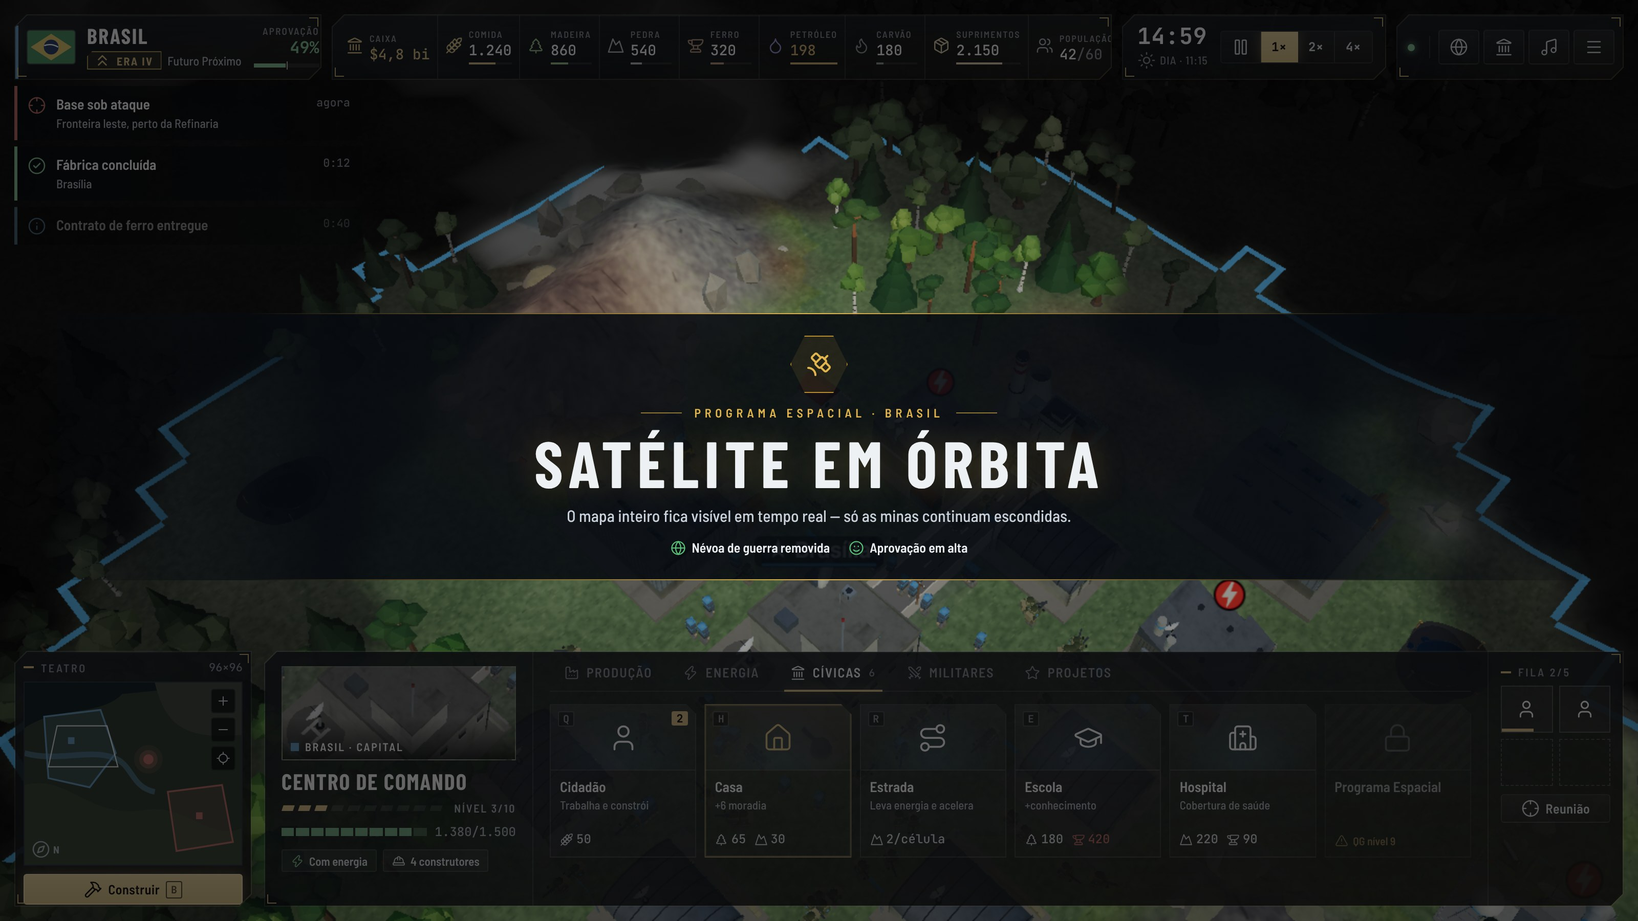
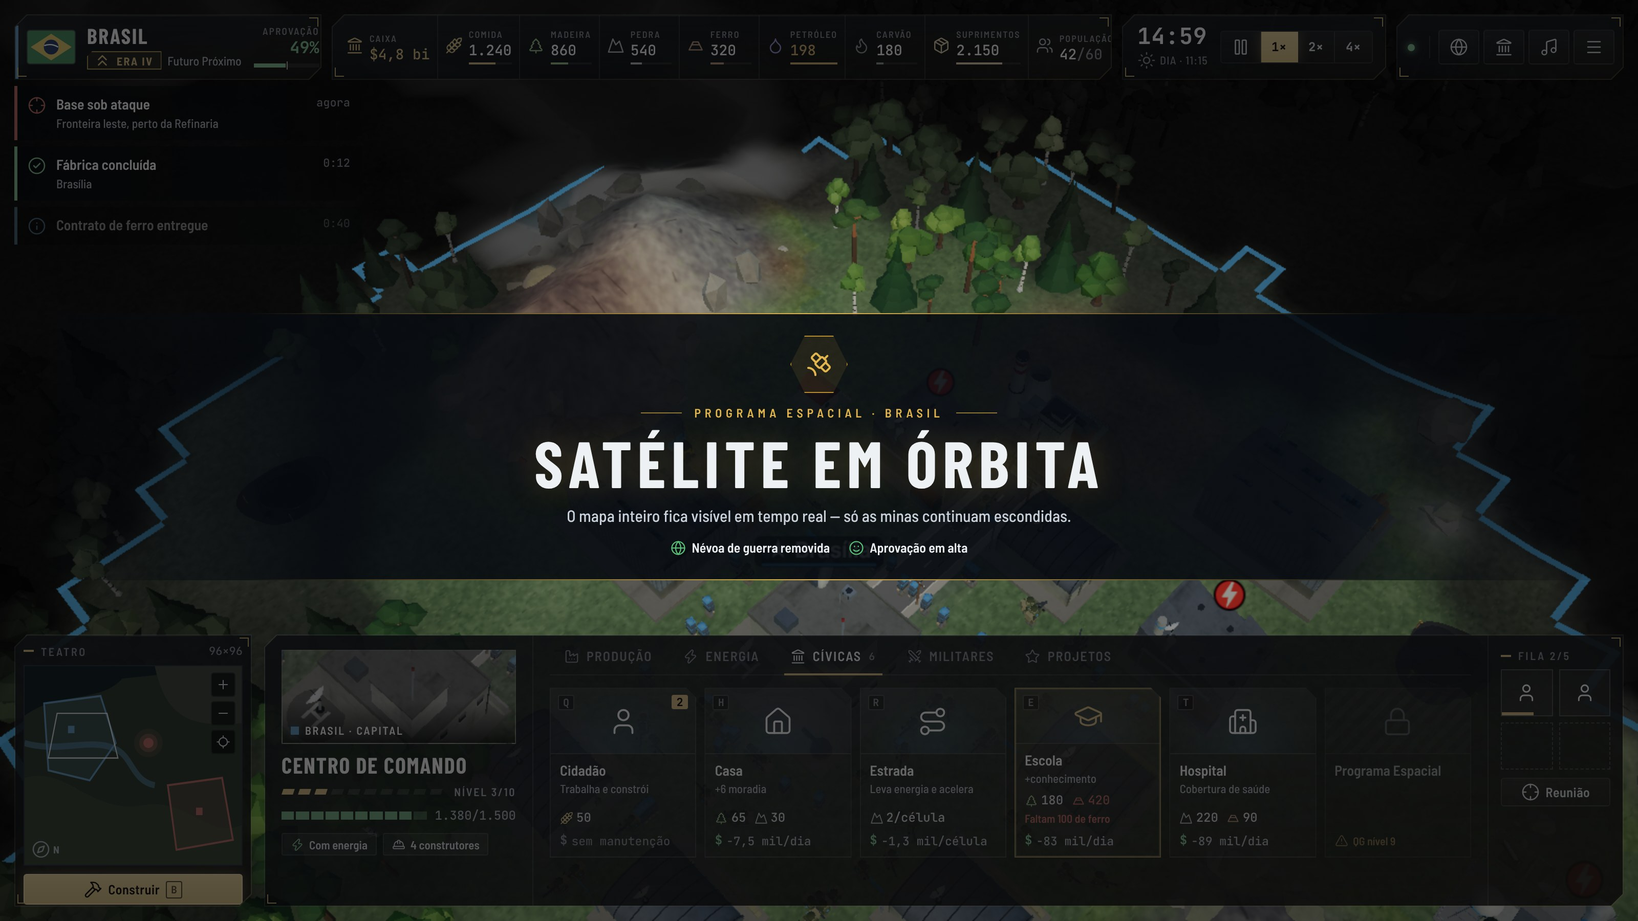
Maquete da interface: ferro como lingote, cores dos recursos nos custos, quanto falta e manutenção diária ($) com efeito no saldo do caixa
Claude-Session: https://claude.ai/code/session_015RU5brxskX44Doeef5qcRE

diff --git a/docs/ui_maquete/fonte/hud.tpl.html b/docs/ui_maquete/fonte/hud.tpl.html
@@ -55,7 +55,7 @@ html, body { width: 100%; height: 100%; overflow: hidden; }
 .ev.old { opacity: .55; }
 
 /* ---------- minimapa ---------- */
-.mini { position: absolute; left: 14px; bottom: 14px; width: 232px; height: 250px; }
+.mini { position: absolute; left: 14px; bottom: 14px; width: 232px; height: 266px; } .mini .map { height: 196px !important; }
 .mini .in { padding: 8px; }
 .mini .head { display: flex; justify-content: space-between; align-items: center; margin-bottom: 7px; }
 .mini .map { position: relative; height: 180px; background: #0b2233; overflow: hidden; border: 1px solid var(--line); }
@@ -69,7 +69,7 @@ html, body { width: 100%; height: 100%; overflow: hidden; }
 .kbd { font: 600 10px var(--mono); padding: 1px 4px; border: 1px solid currentColor; border-radius: 2px; opacity: .7; }
 
 /* ---------- painel de comando ---------- */
-.cmd { position: absolute; left: 258px; right: 14px; bottom: 14px; height: 250px; }
+.cmd { position: absolute; left: 258px; right: 14px; bottom: 14px; height: 266px; }
 .cmd > .in { display: grid; grid-template-columns: 262px 1fr 132px; }
 .sel { padding: 14px 16px; border-right: 1px solid var(--line); display: flex; flex-direction: column; gap: 9px; }
 .portrait { height: 92px; background: url(cena-1.jpg) no-repeat; background-size: 1600px 900px; background-position: -696px -588px; border: 1px solid var(--line); position: relative; }
@@ -98,14 +98,18 @@ html, body { width: 100%; height: 100%; overflow: hidden; }
 .tab.on::after { content: ''; position: absolute; left: 8px; right: 8px; bottom: -1px; height: 2px; background: var(--brass); box-shadow: 0 0 10px var(--brass-glow); }
 .tab .n { font: 500 10px var(--mono); color: var(--ink-400); }
 .grid { display: grid; grid-template-columns: repeat(6, minmax(0, 1fr)); gap: 8px; }
-.card { position: relative; height: 150px; display: flex; flex-direction: column; background: linear-gradient(180deg, rgba(255,255,255,.05), rgba(255,255,255,.015)); border: 1px solid var(--line);
+.card { position: relative; height: 166px; display: flex; flex-direction: column; background: linear-gradient(180deg, rgba(255,255,255,.05), rgba(255,255,255,.015)); border: 1px solid var(--line);
   clip-path: polygon(0 0, calc(100% - 10px) 0, 100% 10px, 100% 100%, 0 100%); }
 .card .art { height: 64px; display: grid; place-items: center; background: radial-gradient(ellipse at 50% 90%, rgba(59,155,227,.20), transparent 70%), linear-gradient(180deg, rgba(255,255,255,.03), transparent); border-bottom: 1px solid var(--line); color: var(--ink-100); }
 .card .art svg.i { width: 30px; height: 30px; stroke-width: 1.5; }
 .card .nm { font: 600 14px/1.15 var(--font); padding: 8px 9px 0; }
-.card .cost { display: flex; gap: 8px; padding: 6px 9px 0; margin-top: auto; padding-bottom: 9px; flex-wrap: wrap; }
+.card .cost { display: flex; gap: 8px; padding: 6px 9px 0; margin-top: auto; padding-bottom: 6px; flex-wrap: wrap; }
 .card .cost span { display: inline-flex; align-items: center; gap: 3px; font: 500 12px var(--mono); color: var(--ink-200); }
 .card .cost svg.i { width: 13px; height: 13px; }
+.card .up { display: flex; align-items: center; gap: 4px; padding: 0 9px 8px; font: 500 11.5px var(--mono); color: var(--ink-300); }
+.card .up b { color: var(--ok); font: 700 12px var(--mono); }
+.card .up.zero { color: var(--ink-400); }
+.card .missline { font: 600 11px var(--font); color: var(--bad); padding: 0 9px 7px; margin-top: -3px; }
 .card .key { position: absolute; top: 6px; left: 7px; font: 600 10px var(--mono); color: var(--ink-400); border: 1px solid var(--line-2); padding: 0 4px; border-radius: 2px; background: rgba(0,0,0,.3); }
 .card .eff { font: 500 11.5px/1.2 var(--font); color: var(--ink-300); padding: 3px 9px 0; }
 .card.hover { border-color: rgba(226,181,77,.6); background: linear-gradient(180deg, rgba(226,181,77,.12), rgba(255,255,255,.02)); box-shadow: inset 0 0 0 1px rgba(226,181,77,.25); }
@@ -125,12 +129,20 @@ html, body { width: 100%; height: 100%; overflow: hidden; }
 .q svg.i { width: 20px; height: 20px; }
 
 /* dica (tooltip) */
-.tip { position: absolute; width: 270px; padding: 12px 14px; z-index: 5; }
+.tip { position: absolute; width: 300px; padding: 12px 14px; z-index: 5; }
 .tip .in { padding: 12px 14px; }
 .tip h4 { font: 700 16px var(--title); letter-spacing: .05em; text-transform: uppercase; display: flex; justify-content: space-between; align-items: center; }
 .tip p { font: 500 12.5px/1.4 var(--font); color: var(--ink-300); margin-top: 6px; }
 .tip .row { display: flex; justify-content: space-between; font: 500 12px var(--font); color: var(--ink-200); padding: 5px 0; border-top: 1px solid var(--line); }
 .tip .row b { font: 500 12px var(--mono); color: var(--ok); }
+.tip .row .num { font-size: 12px; }
+.tip .tsub { font: 600 10px var(--font); letter-spacing: .14em; text-transform: uppercase; color: var(--ink-400); margin: 10px 0 2px; }
+.tip .row.sub { color: var(--ink-300); padding: 3px 0; border-top: 0; }
+.tip .row.tot { font-weight: 700; color: var(--ink-100); }
+.tip .row.tot .num { color: var(--ink-100); font-weight: 700; }
+.tip .usd { color: var(--ok); font: 700 13px var(--mono); }
+.tip .bal { margin-top: 8px; padding: 8px 10px; background: rgba(92,196,122,.08); border: 1px solid rgba(92,196,122,.25); display: flex; flex-direction: column; gap: 4px; font: 600 12px var(--font); color: var(--ink-200); }
+.tip .bal .num { font-size: 12px; color: var(--ok); } .tip .bal i { color: var(--ink-400); font-style: normal; }
 
 /* ---------- momento cinematográfico ---------- */
 .cine { position: absolute; left: 0; right: 0; top: 34%; display: none; flex-direction: column; align-items: center; z-index: 6; }
@@ -160,12 +172,16 @@ html, body { width: 100%; height: 100%; overflow: hidden; }
   .tools .btn.hide-m, .net, .tools .sep { display: none; }
   .feed { top: 62px; width: 250px; } .ev { padding: 6px 9px; } .ev .t { font-size: 12.5px; } .ev .s, .ev.old { display: none; }
   .mini { width: 150px; height: 168px; left: 8px; bottom: 8px; } .mini .in { padding: 6px; } .mini .head { margin-bottom: 4px; } .mini .map { height: 96px; } .mini .build { margin-top: 6px; } .mini .head .kicker { font-size: 9px; } .mini .build .btn { height: 28px; font-size: 12px; }
-  .cmd { left: 166px; right: 8px; bottom: 8px; height: 168px; }
+  .cmd { left: 166px; right: 8px; bottom: 8px; height: 182px; } .mini { height: 182px !important; } .mini .map { height: 110px !important; }
   .cmd > .in { grid-template-columns: 170px 1fr; } .queue { display: none; }
   .sel { padding: 9px 11px; gap: 6px; } .portrait { height: 48px; background-size: 1000px 562px; background-position: -432px -376px; } .selname { font-size: 16px; } .chips, .portrait .owner { display: none; } .pips i { width: 10px; height: 5px; }
   .acts { padding: 0 10px 8px; } .tab { padding: 8px 8px 7px; font-size: 11px; } .tab span.l { display: none; } .tabs { margin-bottom: 8px; }
   .grid { grid-template-columns: repeat(4, minmax(0, 1fr)); gap: 6px; } .grid .card:nth-child(n+5) { display: none; }
-  .card { height: 106px; } .card .art { height: 42px; } .card .art svg.i { width: 22px; height: 22px; } .card .nm { font-size: 12.5px; padding: 5px 7px 0; } .card .eff { display: none; } .card .cost { padding: 4px 7px 7px; } .card .key { display: none; }
+  .card { height: 120px; } .card .missline, .card .eff { display: none; } .card .up { padding: 0 7px 6px; font-size: 10.5px; } .card .art { height: 42px; } .card .art svg.i { width: 22px; height: 22px; } .card .nm { font-size: 12.5px; padding: 5px 7px 0; } .card .eff { display: none; } .card .cost { padding: 4px 7px 7px; } .card .up { display: flex; align-items: center; gap: 4px; padding: 0 9px 8px; font: 500 11.5px var(--mono); color: var(--ink-300); }
+.card .up b { color: var(--ok); font: 700 12px var(--mono); }
+.card .up.zero { color: var(--ink-400); }
+.card .missline { font: 600 11px var(--font); color: var(--bad); padding: 0 9px 7px; margin-top: -3px; }
+.card .key { display: none; }
   .tip { display: none; }
   .btn { height: 34px; min-width: 38px; }
 }
@@ -185,7 +201,7 @@ html, body { width: 100%; height: 100%; overflow: hidden; }
       <div class="r"><span style="color:#d9b45a">{{i:wheat}}</span><div><div class="lbl">Comida</div><div class="v">1.240</div><div class="cap"><i style="width:62%;background:#d9b45a"></i></div></div></div>
       <div class="r"><span style="color:#7fbf6a">{{i:tree-pine}}</span><div><div class="lbl">Madeira</div><div class="v">860</div><div class="cap"><i style="width:43%;background:#7fbf6a"></i></div></div></div>
       <div class="r"><span style="color:#a9b3bd">{{i:mountain}}</span><div><div class="lbl">Pedra</div><div class="v">540</div><div class="cap"><i style="width:27%;background:#a9b3bd"></i></div></div></div>
-      <div class="r hide-m"><span style="color:#c98a63">{{i:anvil}}</span><div><div class="lbl">Ferro</div><div class="v">320</div><div class="cap"><i style="width:32%;background:#c98a63"></i></div></div></div>
+      <div class="r hide-m"><span style="color:#c98a63">{{i:ingot}}</span><div><div class="lbl">Ferro</div><div class="v">320</div><div class="cap"><i style="width:32%;background:#c98a63"></i></div></div></div>
       <div class="r full hide-m"><span style="color:#8f8cff">{{i:droplet}}</span><div><div class="lbl">Petróleo</div><div class="v">198</div><div class="cap"><i style="width:99%;background:var(--warn)"></i></div></div></div>
       <div class="r hide-m"><span style="color:#8a8f99">{{i:flame}}</span><div><div class="lbl">Carvão</div><div class="v">180</div><div class="cap"><i style="width:18%;background:#8a8f99"></i></div></div></div>
       <div class="r"><span style="color:#e2c48a">{{i:package}}</span><div><div class="lbl">Suprimentos</div><div class="v">2.150</div><div class="cap"><i style="width:72%;background:#e2c48a"></i></div></div></div>
@@ -247,11 +263,11 @@ html, body { width: 100%; height: 100%; overflow: hidden; }
         <span class="tab">{{i:star}}<span class="l">Projetos</span></span>
       </div>
       <div class="grid">
-        <div class="card"><span class="key">Q</span><span class="qcount">2</span><div class="art">{{i:user}}</div><div class="nm">Cidadão</div><div class="eff">Trabalha e constrói</div><div class="cost"><span>{{i:wheat}}50</span></div></div>
-        <div class="card hover"><span class="key">H</span><div class="art">{{i:house}}</div><div class="nm">Casa</div><div class="eff">+6 moradia</div><div class="cost"><span>{{i:tree-pine}}65</span><span>{{i:mountain}}30</span></div></div>
-        <div class="card"><span class="key">R</span><div class="art">{{i:route}}</div><div class="nm">Estrada</div><div class="eff">Leva energia e acelera</div><div class="cost"><span>{{i:mountain}}2/célula</span></div></div>
-        <div class="card short"><span class="key">E</span><div class="art">{{i:graduation-cap}}</div><div class="nm">Escola</div><div class="eff">+conhecimento</div><div class="cost"><span>{{i:tree-pine}}180</span><span class="miss">{{i:anvil}}420</span></div></div>
-        <div class="card"><span class="key">T</span><div class="art">{{i:hospital}}</div><div class="nm">Hospital</div><div class="eff">Cobertura de saúde</div><div class="cost"><span>{{i:mountain}}220</span><span>{{i:anvil}}90</span></div></div>
+        <div class="card"><span class="key">Q</span><span class="qcount">2</span><div class="art">{{i:user}}</div><div class="nm">Cidadão</div><div class="eff">Trabalha e constrói</div><div class="cost"><span>{{i:wheat}}50</span></div><div class="up zero"><b style="color:var(--ink-400)">$</b>sem manutenção</div></div>
+        <div class="card"><span class="key">H</span><div class="art">{{i:house}}</div><div class="nm">Casa</div><div class="eff">+6 moradia</div><div class="cost"><span>{{i:tree-pine}}65</span><span>{{i:mountain}}30</span></div><div class="up"><b>$</b>−7,5 mil/dia</div></div>
+        <div class="card"><span class="key">R</span><div class="art">{{i:route}}</div><div class="nm">Estrada</div><div class="eff">Leva energia e acelera</div><div class="cost"><span>{{i:mountain}}2/célula</span></div><div class="up"><b>$</b>−1,3 mil/célula</div></div>
+        <div class="card short hover"><span class="key">E</span><div class="art">{{i:graduation-cap}}</div><div class="nm">Escola</div><div class="eff">+conhecimento</div><div class="cost"><span>{{i:tree-pine}}180</span><span class="miss">{{i:ingot}}420</span></div><div class="missline">Faltam 100 de ferro</div><div class="up"><b>$</b>−83 mil/dia</div></div>
+        <div class="card"><span class="key">T</span><div class="art">{{i:hospital}}</div><div class="nm">Hospital</div><div class="eff">Cobertura de saúde</div><div class="cost"><span>{{i:mountain}}220</span><span>{{i:ingot}}90</span></div><div class="up"><b>$</b>−89 mil/dia</div></div>
         <div class="card lock"><div class="art">{{i:lock}}</div><div class="nm">Programa Espacial</div><div class="lockinfo">{{i:triangle-alert}}QG nível 9</div></div>
       </div>
     </div>
@@ -262,12 +278,17 @@ html, body { width: 100%; height: 100%; overflow: hidden; }
     </div>
   </div><span class="brk tr"></span><span class="brk bl"></span></div>
 
-  <div class="frame tip" style="left:{{TIPX}}px; bottom:272px; padding:0"><div class="in">
-    <h4>Casa <span class="kbd" style="color:var(--ink-300)">H</span></h4>
-    <p>Moradia para os cidadãos. Com energia, aumenta a aprovação da cidade.</p>
-    <div class="row" style="margin-top:8px"><span>Moradia</span><b>+6</b></div>
-    <div class="row"><span>Energia</span><b style="color:var(--warn)">−1</b></div>
-    <div class="row"><span>Custo do próximo</span><span class="num" style="font-size:12px">{{i:tree-pine}} 77 · 35</span></div>
+  <div class="frame tip" style="left:{{TIPX}}px; bottom:288px; padding:0"><div class="in">
+    <h4>Escola <span class="kbd" style="color:var(--ink-300)">E</span></h4>
+    <p>Forma conhecimento para as pesquisas. Uma por cidade.</p>
+    <div class="row" style="margin-top:8px"><span>Custo</span><span class="num" style="font-size:12px">{{i:tree-pine}} 180 · <span class="miss" style="color:var(--bad)">{{i:ingot}} 420</span></span></div>
+    <div class="row" style="color:var(--bad)"><span>Falta</span><span class="num" style="font-size:12px">100 de ferro</span></div>
+    <div class="tsub">Manutenção por dia</div>
+    <div class="row sub"><span>Serviço público</span><span class="num">$66 mil</span></div>
+    <div class="row sub"><span>Energia (2 un., Era IV ×2)</span><span class="num">$13,2 mil</span></div>
+    <div class="row sub"><span>Área (2×2)</span><span class="num">$3,5 mil</span></div>
+    <div class="row tot"><span><b class="usd">$</b> Total</span><span class="num">−$83 mil/dia</span></div>
+    <div class="bal"><span>Saldo do caixa</span><span class="num">+$1,24 mi <i>→</i> +$1,16 mi/dia</span></div>
   </div><span class="brk tr"></span><span class="brk bl"></span></div>
 
   <div class="cine">

diff --git a/docs/ui_maquete/fonte/folha.tpl.html b/docs/ui_maquete/fonte/folha.tpl.html
@@ -18,14 +18,17 @@ h3 { font: 700 18px var(--title); letter-spacing: .08em; text-transform: upperca
 .row { display: flex; gap: 10px; align-items: center; flex-wrap: wrap; }
 .st { font: 500 11px var(--mono); color: var(--ink-400); text-align: center; margin-top: 6px; }
 .cards { display: grid; grid-template-columns: repeat(4, 1fr); gap: 10px; }
-.card { position: relative; height: 150px; display: flex; flex-direction: column; background: linear-gradient(180deg, rgba(255,255,255,.05), rgba(255,255,255,.015)); border: 1px solid var(--line); clip-path: polygon(0 0, calc(100% - 10px) 0, 100% 10px, 100% 100%, 0 100%); }
+.card { position: relative; height: 172px; display: flex; flex-direction: column; background: linear-gradient(180deg, rgba(255,255,255,.05), rgba(255,255,255,.015)); border: 1px solid var(--line); clip-path: polygon(0 0, calc(100% - 10px) 0, 100% 10px, 100% 100%, 0 100%); }
 .card .art { height: 64px; display: grid; place-items: center; background: radial-gradient(ellipse at 50% 90%, rgba(59,155,227,.20), transparent 70%); border-bottom: 1px solid var(--line); }
 .card .art svg.i { width: 30px; height: 30px; stroke-width: 1.5; }
 .card .nm { font: 600 14px var(--font); padding: 8px 9px 0; }
-.card .cost { display: flex; gap: 8px; padding: 0 9px 9px; margin-top: auto; } .card .cost span { display: inline-flex; gap: 3px; align-items: center; font: 500 12px var(--mono); } .card .cost svg.i { width: 13px; height: 13px; }
+.card .cost { display: flex; gap: 8px; padding: 0 9px 6px; margin-top: auto; } .card .cost span { display: inline-flex; gap: 3px; align-items: center; font: 500 12px var(--mono); } .card .cost svg.i { width: 13px; height: 13px; }
 .card.hover { border-color: rgba(226,181,77,.6); background: linear-gradient(180deg, rgba(226,181,77,.12), rgba(255,255,255,.02)); } .card.hover .art { color: var(--brass); }
 .card .miss { color: var(--bad); } .card.lock { opacity: .55; } .card.lock .art { background: repeating-linear-gradient(135deg, rgba(255,255,255,.03) 0 6px, transparent 6px 12px); color: var(--ink-400); }
 .card .li { display: flex; gap: 5px; align-items: center; font: 600 11px var(--font); color: var(--warn); padding: 0 9px 9px; margin-top: auto; } .card .li svg.i { width: 13px; height: 13px; }
+.card .up { display: flex; gap: 4px; align-items: center; padding: 0 9px 8px; font: 500 11.5px var(--mono); color: var(--ink-300); } .card .up b { color: var(--ok); font: 700 12px var(--mono); }
+.card .ml { font: 600 11px var(--font); color: var(--bad); padding: 0 9px 6px; }
+.res { display: grid; grid-template-columns: repeat(7, 1fr); gap: 8px; margin-bottom: 12px; } .res div { display: flex; flex-direction: column; align-items: center; gap: 6px; padding: 10px 0 8px; border: 1px solid var(--line); background: rgba(255,255,255,.03); font: 600 12px var(--font); color: var(--ink-200); } .res svg.i { width: 24px; height: 24px; }
 .card .q { position: absolute; right: 7px; top: 6px; font: 700 11px var(--mono); color: #17130a; background: var(--brass); padding: 0 5px; }
 .icons { display: grid; grid-template-columns: repeat(12, 1fr); gap: 8px; }
 .icons div { height: 54px; display: grid; place-items: center; border: 1px solid var(--line); background: rgba(255,255,255,.03); color: var(--ink-200); }
@@ -91,11 +94,11 @@ h3 { font: 700 18px var(--title); letter-spacing: .08em; text-transform: upperca
     <p class="note" style="margin-top:14px">Área de toque de 34–40 px. Todo botão de ícone tem dica com o nome e a tecla.</p>
   </div><span class="brk tr"></span><span class="brk bl"></span></div>
 
-  <div class="frame box"><div class="in"><h3>Cartões de ação — os quatro estados</h3>
+  <div class="frame box"><div class="in"><h3>Cartões de ação — os quatro estados · <span style="color:var(--ok)">$</span> manutenção por dia</h3>
     <div class="cards">
-      <div><div class="card"><div class="art">{{i:house}}</div><div class="nm">Casa</div><div class="cost"><span>{{i:tree-pine}}65</span><span>{{i:mountain}}30</span></div></div><div class="st">disponível</div></div>
-      <div><div class="card hover"><div class="art">{{i:house}}</div><div class="nm">Casa</div><div class="cost"><span>{{i:tree-pine}}65</span><span>{{i:mountain}}30</span></div></div><div class="st">foco (mostra a dica)</div></div>
-      <div><div class="card"><div class="art">{{i:graduation-cap}}</div><div class="nm">Escola</div><div class="cost"><span>{{i:tree-pine}}180</span><span class="miss">{{i:anvil}}420</span></div></div><div class="st">falta recurso (em vermelho o que falta)</div></div>
+      <div><div class="card"><div class="art">{{i:house}}</div><div class="nm">Casa</div><div class="cost"><span>{{i:tree-pine}}65</span><span>{{i:mountain}}30</span></div><div class="up"><b>$</b>−7,5 mil/dia</div></div><div class="st">disponível</div></div>
+      <div><div class="card hover"><div class="art">{{i:house}}</div><div class="nm">Casa</div><div class="cost"><span>{{i:tree-pine}}65</span><span>{{i:mountain}}30</span></div><div class="up"><b>$</b>−7,5 mil/dia</div></div><div class="st">foco (mostra a dica)</div></div>
+      <div><div class="card"><div class="art">{{i:graduation-cap}}</div><div class="nm">Escola</div><div class="cost"><span>{{i:tree-pine}}180</span><span class="miss">{{i:ingot}}420</span></div><div class="ml">Faltam 100 de ferro</div><div class="up"><b>$</b>−83 mil/dia</div></div><div class="st">falta recurso (diz quanto falta)</div></div>
       <div><div class="card lock"><div class="art">{{i:lock}}</div><div class="nm">Programa Espacial</div><div class="li">{{i:triangle-alert}}QG nível 9</div></div><div class="st">bloqueado (diz o que pede)</div></div>
     </div>
   </div><span class="brk tr"></span><span class="brk bl"></span></div>
@@ -103,8 +106,9 @@ h3 { font: 700 18px var(--title); letter-spacing: .08em; text-transform: upperca
 
 <section><div class="cols" style="grid-template-columns: 2fr 1fr">
   <div class="frame box"><div class="in"><h3>Ícones — um conjunto só, mesmo traço (Lucide, licença ISC)</h3>
+    <div class="res"><div><span style="color:#d9b45a">{{i:wheat}}</span>Comida</div><div><span style="color:#7fbf6a">{{i:tree-pine}}</span>Madeira</div><div><span style="color:#a9b3bd">{{i:mountain}}</span>Pedra</div><div><span style="color:#c98a63">{{i:ingot}}</span>Ferro</div><div><span style="color:#8f8cff">{{i:droplet}}</span>Petróleo</div><div><span style="color:#8a8f99">{{i:flame}}</span>Carvão</div><div><span style="color:#e2c48a">{{i:package}}</span>Suprimentos</div></div>
     <div class="icons">
-      <div>{{i:wheat}}</div><div>{{i:tree-pine}}</div><div>{{i:mountain}}</div><div>{{i:anvil}}</div><div>{{i:droplet}}</div><div>{{i:flame}}</div><div>{{i:package}}</div><div>{{i:landmark}}</div><div>{{i:users}}</div><div>{{i:zap}}</div><div>{{i:factory}}</div><div>{{i:swords}}</div>
+      <div>{{i:wheat}}</div><div>{{i:tree-pine}}</div><div>{{i:mountain}}</div><div>{{i:ingot}}</div><div>{{i:droplet}}</div><div>{{i:flame}}</div><div>{{i:package}}</div><div>{{i:landmark}}</div><div>{{i:users}}</div><div>{{i:zap}}</div><div>{{i:factory}}</div><div>{{i:swords}}</div>
       <div>{{i:globe}}</div><div>{{i:music}}</div><div>{{i:menu}}</div><div>{{i:hammer}}</div><div>{{i:crosshair}}</div><div>{{i:satellite}}</div><div>{{i:rocket}}</div><div>{{i:shield}}</div><div>{{i:hard-hat}}</div><div>{{i:route}}</div><div>{{i:house}}</div><div>{{i:hospital}}</div>
     </div>
     <p class="note" style="margin-top:12px">Substituem os emojis, que mudam de desenho em cada celular. Recursos ganham uma cor fixa cada (comida dourada, madeira verde, pedra cinza, ferro cobre…), igual em todo o jogo.</p>

diff --git a/docs/ui_maquete/fonte/estilo.css b/docs/ui_maquete/fonte/estilo.css
@@ -55,3 +55,8 @@ svg.i { width: 18px; height: 18px; stroke-width: 1.75; flex: none; }
 .seg { display: inline-flex; border: 1px solid var(--line); border-radius: 3px; overflow: hidden; }
 .seg .btn { border: 0; border-radius: 0; border-right: 1px solid var(--line); height: 30px; min-width: 36px; font-family: var(--mono); font-size: 12px; }
 .seg .btn:last-child { border-right: 0; }
+
+/* cada recurso com a sua cor também nos custos (o que falta fica vermelho) */
+.cost [data-n=wheat], .tip [data-n=wheat] { color: #d9b45a; } .cost [data-n=tree-pine], .tip [data-n=tree-pine] { color: #7fbf6a; } .cost [data-n=mountain], .tip [data-n=mountain] { color: #a9b3bd; }
+.cost [data-n=ingot], .tip [data-n=ingot] { color: #c98a63; } .cost [data-n=droplet] { color: #8f8cff; } .cost [data-n=package] { color: #e2c48a; }
+.cost .miss [data-n], .tip .miss [data-n], .miss svg.i { color: var(--bad) !important; }

diff --git a/docs/ui_maquete/README.md b/docs/ui_maquete/README.md
@@ -13,6 +13,11 @@ Ideia central: painéis de console sobre o mapa, com canto chanfrado (eco das fo
 de latão nos outros cantos, faixa na cor da nação, números em fonte de instrumento; ícones de um conjunto só (Lucide,
 ISC) no lugar dos emojis; fontes livres (Barlow Condensed / Barlow Semi Condensed / JetBrains Mono, OFL) embutidas.
 
+**Revisão de 05/11:** o ferro virou lingote (a bigorna não era reconhecida) e cada recurso tem a sua cor também nos
+custos; o cartão diz quanto falta ("Faltam 100 de ferro") e mostra a manutenção por dia com o $ verde; a dica detalha
+a manutenção (serviço público, energia, área, como no caixa do país: `shared/strategic/treasury.ts`) e o saldo do
+caixa antes → depois de construir. Valores da maquete: país com PIB de ~US$ 2,2 tri na Era IV (energia ×2).
+
 O fundo é uma cena real do jogo (Sandbox) capturada sem o HUD. Para refazer as imagens:
 
 ```bash
